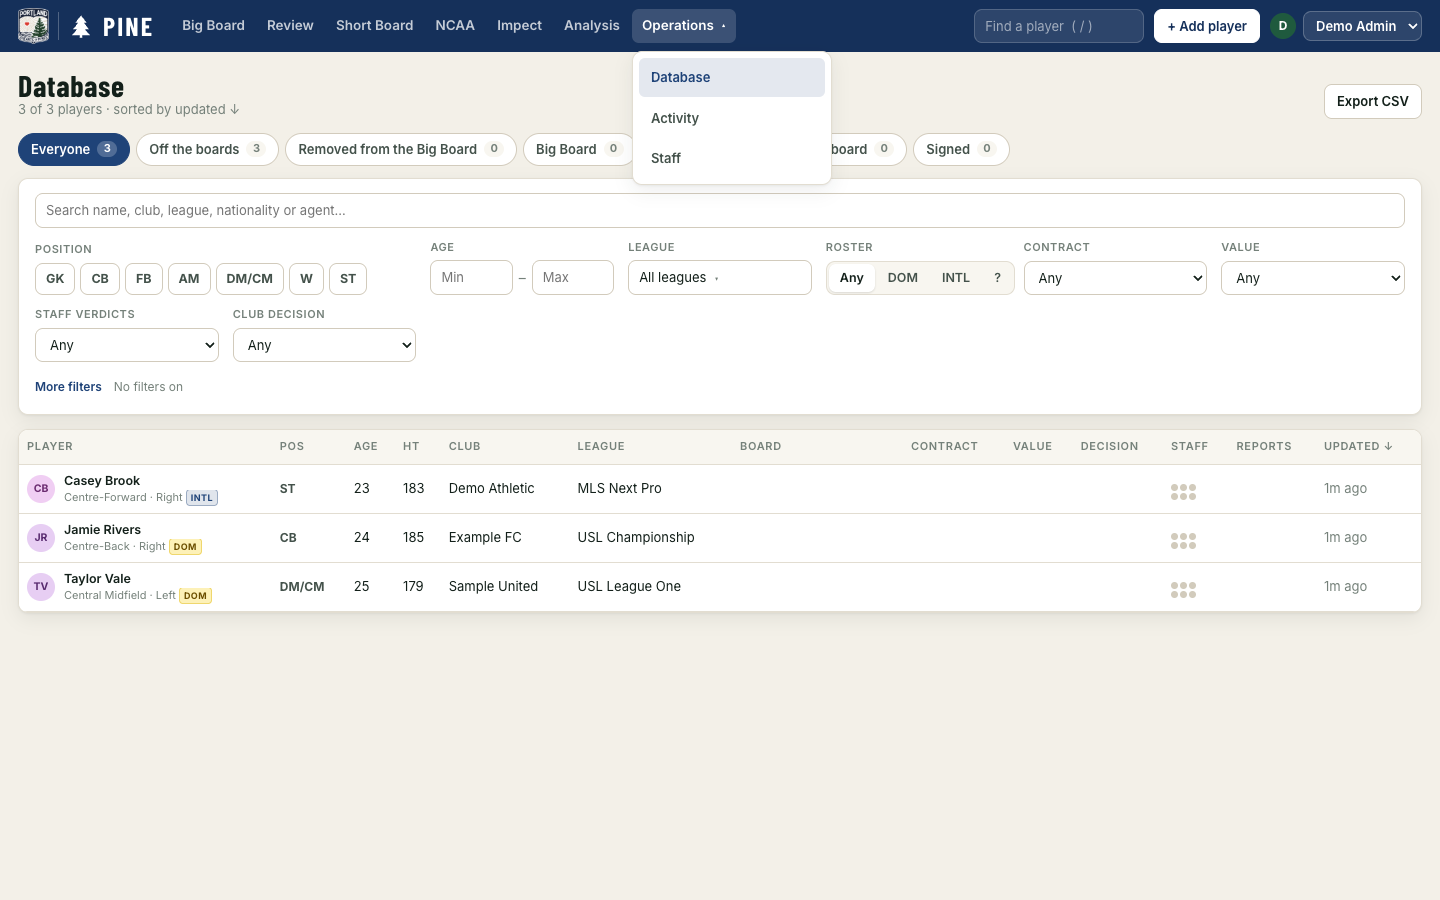
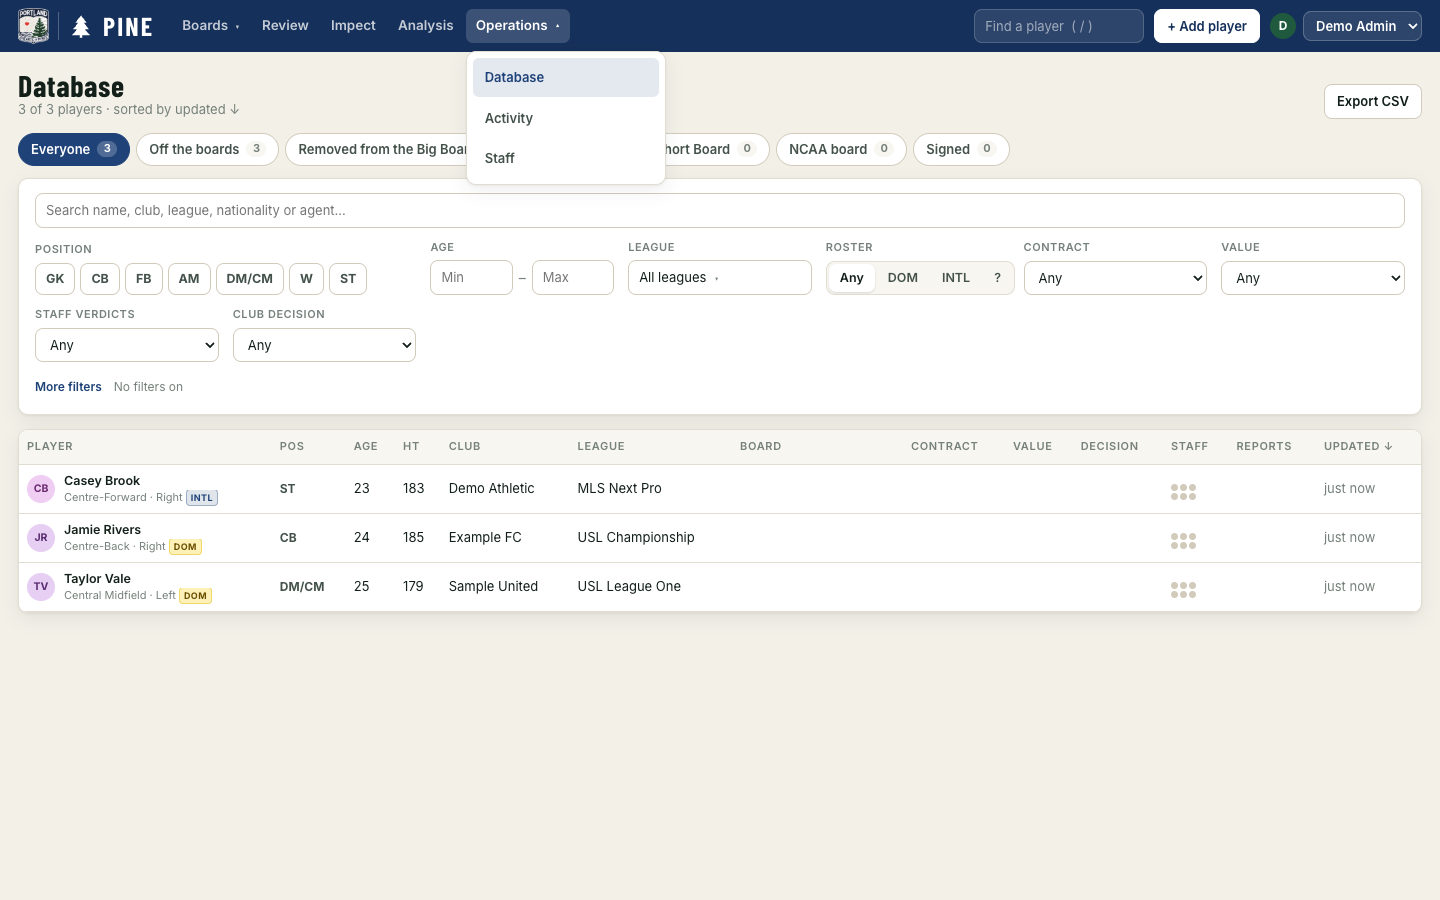
Group Big Board, Short Board and NCAA under Boards

diff --git a/public/app.js b/public/app.js
@@ -369,14 +369,17 @@ function renderShell() {
   <header class="top">
     <a class="brand" href="#/board"><img class="club-crest" src="/hop-crest.png?v=1" alt="Portland Hearts of Pine" width="31" height="36"><span class="brand-divider" aria-hidden="true"></span>${LOGO}<span class="wordmark">PINE</span><span class="tagline">Player Identification Network Evaluation</span></a>
     <nav class="nav" id="nav">
-      <a href="#/board" data-v="board">Big Board</a>
+      <button class="nav-trigger" id="boards-trigger" type="button" popovertarget="boards-menu" aria-controls="boards-menu" aria-expanded="false">Boards<span aria-hidden="true">▾</span></button>
+      <div class="nav-menu" id="boards-menu" popover role="group" aria-label="Boards">
+        <a href="#/board" data-v="board">Big Board</a>
+        <a href="#/short-board" data-v="short-board">Short Board</a>
+        <a href="#/ncaa" data-v="ncaa">NCAA</a>
+      </div>
       ${reviewRole() ? `<a href="#/review" data-v="review">Review<span class="nav-badge" id="review-badge" ${S.reviewOpen ? "" : "hidden"}>${S.reviewOpen || ""}</span></a>` : ""}
-      <a href="#/short-board" data-v="short-board">Short Board</a>
-      <a href="#/ncaa" data-v="ncaa">NCAA</a>
       <a href="#/impect" data-v="impect">Impect</a>
       <a href="#/analysis" data-v="analysis">Analysis</a>
-      <button class="operations-trigger" id="operations-trigger" type="button" popovertarget="operations-menu" aria-controls="operations-menu" aria-expanded="false">Operations<span aria-hidden="true">▾</span></button>
-      <div class="operations-menu" id="operations-menu" popover role="group" aria-label="Operations">
+      <button class="nav-trigger" id="operations-trigger" type="button" popovertarget="operations-menu" aria-controls="operations-menu" aria-expanded="false">Operations<span aria-hidden="true">▾</span></button>
+      <div class="nav-menu" id="operations-menu" popover role="group" aria-label="Operations">
         <a href="#/players" data-v="players">Database</a>
         <a href="#/activity" data-v="activity">Activity</a>
         ${S.me.is_admin ? `<a href="#/staff" data-v="staff">Staff</a>` : ""}
@@ -411,22 +414,28 @@ function renderShell() {
     } catch (err) { oops(err); }
   });
   $("#upd button").addEventListener("click", () => { $("#upd").hidden = true; refresh(); });
-  wireOperationsNav();
+  wireNavMenus();
   wireGlobalSearch();
 }
 
-function wireOperationsNav() {
-  const trigger = $("#operations-trigger"), menu = $("#operations-menu");
-  // The native popover sits above the scrolling phone nav, with click-away and Escape dismissal.
-  menu.addEventListener("beforetoggle", (e) => {
-    trigger.setAttribute("aria-expanded", String(e.newState === "open"));
-    if (e.newState !== "open") return;
-    const rect = trigger.getBoundingClientRect(), width = Math.min(200, innerWidth - 24);
-    menu.style.left = `${Math.max(12, Math.min(rect.left, innerWidth - width - 12))}px`;
-    menu.style.top = `${rect.bottom + 8}px`;
+function closeNavMenus() {
+  $$(".nav-menu:popover-open").forEach((menu) => menu.hidePopover());
+}
+
+function wireNavMenus() {
+  $$("#nav .nav-trigger").forEach((trigger) => {
+    const menu = document.getElementById(trigger.getAttribute("popovertarget"));
+    // Native popovers sit above the scrolling phone nav and dismiss on click-away or Escape.
+    menu.addEventListener("beforetoggle", (e) => {
+      trigger.setAttribute("aria-expanded", String(e.newState === "open"));
+      if (e.newState !== "open") return;
+      const rect = trigger.getBoundingClientRect(), width = Math.min(200, innerWidth - 24);
+      menu.style.left = `${Math.max(12, Math.min(rect.left, innerWidth - width - 12))}px`;
+      menu.style.top = `${rect.bottom + 8}px`;
+    });
+    menu.addEventListener("click", (e) => { if (e.target.closest("a")) menu.hidePopover(); });
   });
-  menu.addEventListener("click", (e) => { if (e.target.closest("a")) menu.hidePopover(); });
-  $("#nav").addEventListener("scroll", () => menu.hidePopover());
+  $("#nav").addEventListener("scroll", closeNavMenus);
 }
 
 function wireGlobalSearch() {
@@ -476,10 +485,9 @@ async function render() {
   });
   const inOperations = ["players", "player", "activity", "staff"].includes(view);
   $("#operations-trigger").classList.toggle("on", inOperations);
-  if (view === 'analysis' || inOperations) {
-    const link = inOperations ? $('#operations-trigger') : $('#nav [data-v="analysis"]'), nav = $('#nav');
-    if (link && nav.scrollWidth > nav.clientWidth) nav.scrollLeft = link.offsetLeft - nav.offsetLeft - (nav.clientWidth - link.offsetWidth) / 2;
-  }
+  $("#boards-trigger").classList.toggle("on", ["board", "short-board", "ncaa"].includes(view));
+  const link = $("#nav > .on"), nav = $("#nav");
+  if (link && nav.scrollWidth > nav.clientWidth) nav.scrollLeft = link.offsetLeft - nav.offsetLeft - (nav.clientWidth - link.offsetWidth) / 2;
   $("#upd").hidden = !S.staleNotified; // the reload prompt stays up until they reload
   const views = { analysis: (main, arg) => renderAnalysis(main, arg, { api, setTitle }), board: renderBoard, review: renderReview, "short-board": renderShortBoard, ncaa: renderNcaa, players: renderTable, player: renderPlayer, impect: renderImpect, activity: renderActivity, staff: renderStaff };
   // Pitch maps had their own tab for a day; its links now open the player's page, where the maps live.
@@ -3743,13 +3751,13 @@ async function boot() {
 // so canonicalising the URL in render() can't loop back in here.
 const onNavigate = () => {
   if (welcomeToken()) return showWelcome(welcomeToken());
-  $("#operations-menu")?.hidePopover();
+  closeNavMenus();
   closeModal();
   render().then(() => scrollTo(0, 0));
 };
 window.addEventListener("hashchange", onNavigate);
 window.addEventListener("popstate", onNavigate);
-window.addEventListener("resize", () => $("#operations-menu")?.hidePopover());
+window.addEventListener("resize", closeNavMenus);
 document.addEventListener("keydown", (e) => {
   if (e.key === "Escape" && $("#modal")) closeModal();
   if (e.key === "/" && S.me && !e.target.matches("input, textarea, select") && !$("#modal") && !$("#board-reason-modal")) { e.preventDefault(); $("#gs")?.focus(); }

diff --git a/public/styles.css b/public/styles.css
@@ -111,19 +111,19 @@ label.lbl, .lbl { display: block; font-size: 11px; font-weight: 600; letter-spac
 .tagline { font-size: 11px; color: rgba(255, 255, 255, .62); max-width: 120px; line-height: 1.15; }
 @media (max-width: 1560px) { .top .tagline { display: none; } } /* room for it only on wide screens */
 .nav { display: flex; align-items: center; gap: 2px; }
-.nav > a, .operations-trigger { flex: none; white-space: nowrap; color: rgba(255, 255, 255, .75); padding: 7px 10px; border-radius: 7px; font-weight: 600; font-size: 13.5px; text-decoration: none; }
-.operations-trigger { display: inline-flex; align-items: center; gap: 7px; border: 0; background: transparent; cursor: pointer; }
-.operations-trigger span { font-size: 10px; }
-.operations-trigger[aria-expanded="true"] span { transform: rotate(180deg); }
-.nav > a:hover, .operations-trigger:hover { color: #fff; background: rgba(255, 255, 255, .08); }
-.nav > a.on, .operations-trigger.on, .operations-trigger[aria-expanded="true"] { color: #fff; background: rgba(255, 255, 255, .16); }
-.nav > a:focus-visible, .operations-trigger:focus-visible { outline-color: #fff; }
-.operations-menu { position: fixed; inset: auto; margin: 0; width: min(200px, calc(100vw - 24px)); padding: 6px;
+.nav > a, .nav-trigger { flex: none; white-space: nowrap; color: rgba(255, 255, 255, .75); padding: 7px 10px; border-radius: 7px; font-weight: 600; font-size: 13.5px; text-decoration: none; }
+.nav-trigger { display: inline-flex; align-items: center; gap: 7px; border: 0; background: transparent; cursor: pointer; }
+.nav-trigger span { font-size: 10px; }
+.nav-trigger[aria-expanded="true"] span { transform: rotate(180deg); }
+.nav > a:hover, .nav-trigger:hover { color: #fff; background: rgba(255, 255, 255, .08); }
+.nav > a.on, .nav-trigger.on, .nav-trigger[aria-expanded="true"] { color: #fff; background: rgba(255, 255, 255, .16); }
+.nav > a:focus-visible, .nav-trigger:focus-visible { outline-color: #fff; }
+.nav-menu { position: fixed; inset: auto; margin: 0; width: min(200px, calc(100vw - 24px)); padding: 6px;
   background: var(--surface); color: var(--ink); border: 1px solid var(--line); border-radius: 10px; box-shadow: var(--shadow); }
-.operations-menu:popover-open { display: grid; gap: 2px; }
-.operations-menu a { display: block; padding: 10px 12px; border-radius: 6px; color: var(--ink-2); font-size: 13px; font-weight: 600; text-decoration: none; }
-.operations-menu a:hover { color: var(--ink); background: var(--surface-2); }
-.operations-menu a.on { color: var(--accent); background: color-mix(in srgb, var(--accent) 12%, var(--surface)); }
+.nav-menu:popover-open { display: grid; gap: 2px; }
+.nav-menu a { display: block; padding: 10px 12px; border-radius: 6px; color: var(--ink-2); font-size: 13px; font-weight: 600; text-decoration: none; }
+.nav-menu a:hover { color: var(--ink); background: var(--surface-2); }
+.nav-menu a.on { color: var(--accent); background: color-mix(in srgb, var(--accent) 12%, var(--surface)); }
 .top-r { margin-left: auto; display: flex; align-items: center; gap: 10px; }
 .top .btn.primary { background: #fff; color: var(--navy); border-color: #fff; }
 .top .btn.ghost { color: rgba(255, 255, 255, .8); }
@@ -899,7 +899,7 @@ details[open] > summary .kpi-chev { transform: rotate(45deg); }
 /* ---------- responsive ---------- */
 @media (max-width: 1240px) { /* narrower laptops: tighter nav and search so it still fits one line */
   .top { gap: 12px; }
-  .nav > a, .operations-trigger { padding: 7px 7px; font-size: 13px; }
+  .nav > a, .nav-trigger { padding: 7px 7px; font-size: 13px; }
   .gsearch input { width: 120px; }
   .brand .wordmark { font-size: 22px; }
 }

diff --git a/docs/screenshots/operations/README.md b/docs/screenshots/operations/README.md
@@ -1,24 +1,32 @@
-# Operations navigation
+# Boards and Operations navigation
 
-The top bar groups Database, Activity and Staff under a click-operated Operations
-dropdown. Staff is visible only to admins. Operations stays selected on all three
-pages and on player profiles; the current destination is highlighted inside it.
+The top bar groups Big Board, Short Board and NCAA under Boards, and Database,
+Activity and Staff under Operations. Staff is visible only to admins. Each menu
+stays selected on its pages, with the current destination highlighted inside it.
+Operations also stays selected on player profiles. Opening either menu closes
+the other.
 
 | View | Light | Dark |
 |---|---|---|
-| Desktop (1440 × 900) | [Screenshot](desktop-light.png) | [Screenshot](desktop-dark.png) |
-| Phone (390 × 844) | [Screenshot](phone-light.png) | [Screenshot](phone-dark.png) |
+| Boards, desktop (1440 × 900) | [Screenshot](boards-desktop-light.png) | [Screenshot](boards-desktop-dark.png) |
+| Boards, phone (390 × 844) | [Screenshot](boards-phone-light.png) | [Screenshot](boards-phone-dark.png) |
+| Operations, desktop (1440 × 900) | [Screenshot](desktop-light.png) | [Screenshot](desktop-dark.png) |
+| Operations, phone (390 × 844) | [Screenshot](phone-light.png) | [Screenshot](phone-dark.png) |
 
-Screenshots use the isolated `node scripts/preview-analysis.mjs` server with
-three fictional players (Jamie Rivers, Taylor Vale and Casey Brook), example
-clubs, and demo staff names added only to its disposable database. There are no
-staff reports, verdicts, decisions or board rankings in the fixture.
+Screenshots use an isolated local server with a disposable database and provider
+access disabled by `scripts/fixtures/offline-fetch.mjs`. Three fictional players
+(Jamie Rivers, Taylor Vale and Casey Brook), example clubs and demo staff names
+are added only to that database. There are no staff reports, verdicts, decisions
+or board rankings in the fixture.
 
 Browser verification covered both themes and viewport sizes, every destination,
 click and touch interaction, Enter/Space opening, Tab navigation, Escape with
 focus return, click-away dismissal, selecting the current page, browser Back,
 player-profile highlighting, phone menu bounds and clipping, dismissal when the
 nav scrolls or the viewport resizes, and non-admin Staff visibility and access.
+Boards checks also covered all three destinations, the NCAA database view,
+legacy Short Board links, returning via browser Back, the separate Review tab,
+and mutual dismissal when switching between Boards and Operations.
 No JavaScript errors or horizontal document overflow occurred in these checks.
 
 Automated checks: `npm run check`, `npm test` (204 passing), and

diff --git a/README.md b/README.md
@@ -208,9 +208,11 @@ Minute share divides recorded player minutes by actual match duration across the
 
 ## What's where
 
-**Operations** in the top bar opens Database, Activity and (for admins) Staff.
-It stays highlighted on those pages and on player profiles. Click a link to go
-directly to that page; click away or press Escape to close the dropdown.
+**Boards** in the top bar opens Big Board, Short Board and NCAA, and stays
+highlighted on those pages. **Operations** opens Database, Activity and (for
+admins) Staff, and stays highlighted on those pages and on player profiles.
+Click a link to go directly to that page; click away or press Escape to close
+either dropdown.
 
 Official signings have a magenta frame and **✓ Signed** badge on the player page, Big Board,
 Short Board, NCAA board, player list and search results. Any signed-in staff member can use
